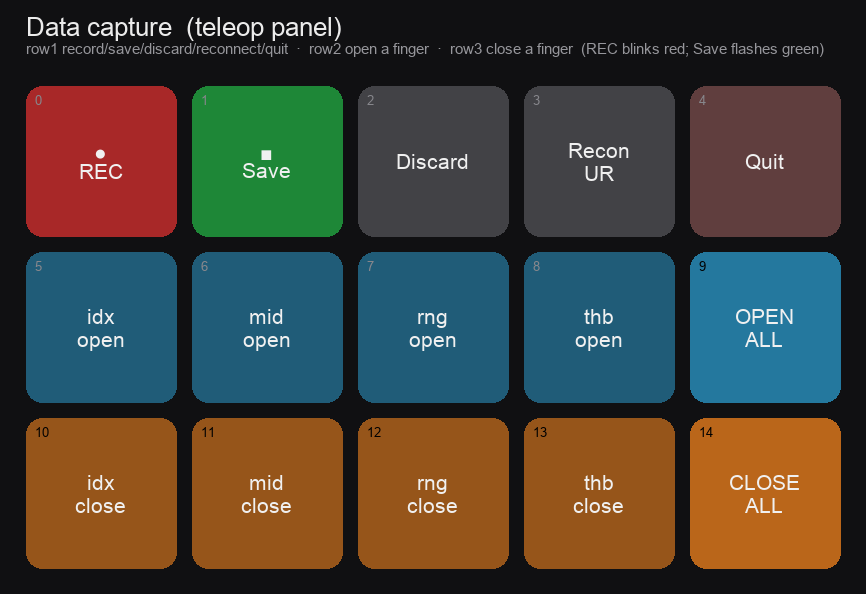
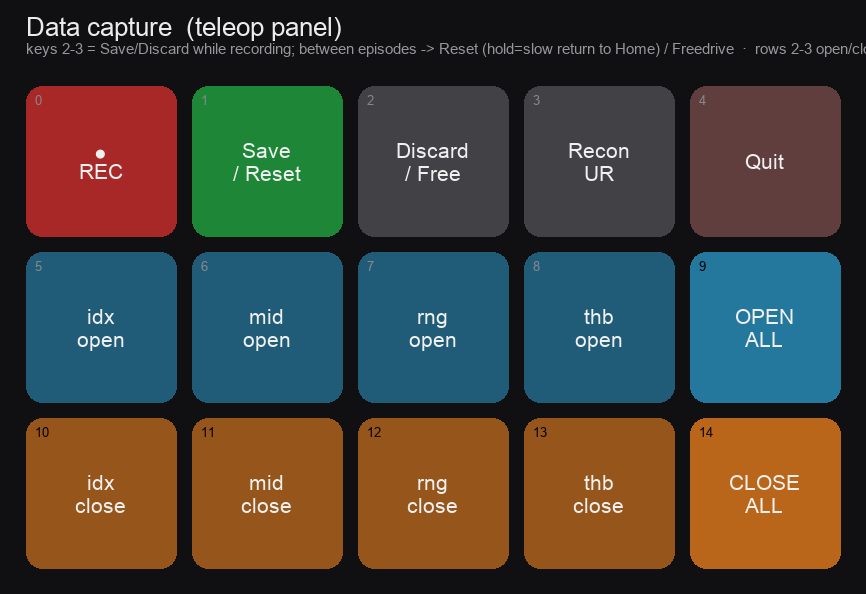
panel: Set-Home + hold-to-home Reset + state-dependent deck keys (Save/Reset, Discard/Freedrive)
- 🏠 Set Home button captures current joint config -> outputs/home_pose.json (loaded on launch)
- rtde_arm.home_step(): slow joint-space servoJ toward home (singularity-safe)
- deck keys flip on recording state: recording=Save/Discard; idle=Reset(hold->home)/Freedrive(toggle)
- Reset re-bases the teleop target so releasing it doesn't jump; README deck diagrams updated
GUI smoke-built (kinematic); hardware behaviors need on-robot validation.

Changed region(s): [[0.0312, 0.0606, 1.0, 0.0909], [0.4365, 0.2424, 0.5612, 0.303], [0.2806, 0.2424, 0.343, 0.303]]

diff --git a/ur5e_lerobot/teleop/manual_panel.py b/ur5e_lerobot/teleop/manual_panel.py
@@ -423,6 +423,17 @@ def run_gui(engine, repo_id, root, task_default, fps, width, height, input_mode=
     ctrl = ManualController(session.home, grasp_mode=grasp_mode)  # arm's natural keyframe home, grasp 0
     ranges = ctrl.ranges()
 
+    # Captured home JOINT config for the deck 'Reset' key (hold-to-home). Persisted across runs.
+    import json as _json
+    HOME_PATH, HOME_DQ = "outputs/home_pose.json", 0.03  # rad/tick step (~0.36 rad/s at 12 fps)
+    hp = {"q": None}  # mutable holder; Set Home updates it
+    if os.path.exists(HOME_PATH):
+        try:
+            hp["q"] = _json.load(open(HOME_PATH)).get("q")
+            print(f"[home] loaded home pose from {HOME_PATH}")
+        except Exception as e:  # noqa: BLE001
+            print(f"[home] could not load {HOME_PATH}: {e}")
+
     # Live input state — the mode is switchable at runtime via the dropdown, so keep the device
     # handles + current mode in a mutable dict (closures below read/mutate it).
     io = {"mode": input_mode, "sm": None, "gp": None, "gp_ok": False}
@@ -550,6 +561,34 @@ def run_gui(engine, repo_id, root, task_default, fps, width, height, input_mode=
         for k, var in sliders.items():
             var.set(getattr(ctrl, k))
         grasp_var.set(ctrl.grasp)
+
+    def do_set_home() -> None:
+        """Capture the arm's CURRENT joint config as the home pose (freedrive there first). Persisted;
+        the deck 'Reset' key hold-returns to it."""
+        try:
+            q = [float(v) for v in session.robot.arm.get_joint_positions()]
+        except Exception as e:  # noqa: BLE001
+            log(f"set-home failed (no joint feedback): {e}")
+            return
+        hp["q"] = q
+        try:
+            os.makedirs("outputs", exist_ok=True)
+            _json.dump({"q": q, "tcp": [float(v) for v in session.robot.arm.get_ee_pose()]},
+                       open(HOME_PATH, "w"), indent=2)
+            log("home pose set ✓ — deck Reset (hold) returns here")
+        except Exception as e:  # noqa: BLE001
+            log(f"home set in memory; save failed: {e}")
+
+    def _rebase_ctrl() -> None:
+        """Snap the teleop target onto the arm's actual pose (no _home_rot change) so resuming teleop
+        after a hold-to-home / freedrive doesn't jump."""
+        try:
+            pose = session.robot.arm.get_ee_pose()
+        except Exception:  # noqa: BLE001
+            return
+        ctrl.x = _clamp(pose[0], *ranges["x"]); ctrl.y = _clamp(pose[1], *ranges["y"]); ctrl.z = _clamp(pose[2], *ranges["z"])
+        d = ctrl._home_rot.inv() * Rotation.from_rotvec(pose[3:6])
+        ctrl.roll, ctrl.pitch, ctrl.yaw = (float(a) for a in d.as_euler("xyz"))
 
     def do_save() -> None:
         import time
@@ -692,6 +731,7 @@ def run_gui(engine, repo_id, root, task_default, fps, width, height, input_mode=
     btns = tk.Frame(win)
     actions = [
         ("Reset scene", do_reset),
+        ("🏠 Set Home", do_set_home),
         ("● Start rec", session.start_episode),
         ("■ Save ep", do_save),
         ("Discard", do_discard),
@@ -748,14 +788,16 @@ def run_gui(engine, repo_id, root, task_default, fps, width, height, input_mode=
     # Deck layout (5x3, deck mounted upside down -> flip=True). Row 1: actions. Row 2: per-finger
     # OPEN + Open-All. Row 3: per-finger CLOSE + Close-All. In sd_fingers: finger index -1 == all
     # fingers; sign -1 == open, +1 == close.
-    sd_actions = {0: session.start_episode, 1: do_save, 2: do_discard, 3: do_reconnect, 4: on_close}
-    sd_action_labels = {0: "● REC", 1: "■ Save", 2: "Discard", 3: "⟳ Recon", 4: "Quit"}
+    # Keys 0/3/4 are fixed actions. Keys 1/2 are recording-state-dependent (handled in _pump_streamdeck):
+    #   recording -> 1=Save, 2=Discard   |   idle -> 1=Reset (hold->home), 2=Freedrive (toggle).
+    sd_actions = {0: session.start_episode, 3: do_reconnect, 4: on_close}
+    sd_action_labels = {0: "● REC", 3: "⟳ Recon", 4: "Quit"}
     sd_fingers = {5: (0, -1), 6: (1, -1), 7: (2, -1), 8: (3, -1), 9: (-1, -1),
                   10: (0, +1), 11: (1, +1), 12: (2, +1), 13: (3, +1), 14: (-1, +1)}
     sd_labels = {5: "idx\nopen", 6: "mid\nopen", 7: "rng\nopen", 8: "thb\nopen", 9: "OPEN\nALL",
                  10: "idx\nclose", 11: "mid\nclose", 12: "rng\nclose", 13: "thb\nclose", 14: "CLOSE\nALL"}
-    sd = {"pad": None, "queue": _queue.Queue(), "held": {},
-          "rec_bg": None, "save_bg": None, "save_flash_until": 0.0}  # deck key-blink state
+    sd = {"pad": None, "queue": _queue.Queue(), "held": {}, "reset_held": False, "prev_mode": "spacemouse",
+          "rec_bg": None, "k1": None, "k2": None, "save_flash_until": 0.0}  # deck key-render state
     try:
         from .streamdeck import StreamDeckPad
 
@@ -769,6 +811,14 @@ def run_gui(engine, repo_id, root, task_default, fps, width, height, input_mode=
     except Exception as e:  # noqa: BLE001 — the panel runs fine without a deck
         log(f"Stream Deck not available ({e})")
 
+    def _toggle_freedrive_key() -> None:
+        # deck key 2 when idle: flip between teach mode and the prior driving input
+        if io["mode"] == "freedrive":
+            switch_mode(sd["prev_mode"])
+        else:
+            sd["prev_mode"] = io["mode"] if io["mode"] != "freedrive" else "spacemouse"
+            switch_mode("freedrive")
+
     def _pump_streamdeck() -> None:
         moved = False
         while True:  # drain events pushed from the deck's callback thread
@@ -778,7 +828,19 @@ def run_gui(engine, repo_id, root, task_default, fps, width, height, input_mode=
                 break
             if key in sd_actions:
                 if down:
-                    sd_actions[key]()          # fire the action on press
+                    sd_actions[key]()          # fixed actions (REC / Recon / Quit)
+            elif key == 1:                     # Save (recording) | Reset-hold (idle)
+                if session.recording:
+                    if down:
+                        do_save()
+                else:
+                    sd["reset_held"] = down
+            elif key == 2:                     # Discard (recording) | Freedrive-toggle (idle)
+                if session.recording:
+                    if down:
+                        do_discard()
+                elif down:
+                    _toggle_freedrive_key()
             elif key in sd_fingers:
                 sd["held"][key] = down          # hold-to-ramp
         for key, held in sd["held"].items():
@@ -792,21 +854,33 @@ def run_gui(engine, repo_id, root, task_default, fps, width, height, input_mode=
             grasp_var.set(ctrl.grasp)
 
     def _update_deck_status() -> None:
-        # Blink REC (key 0) while recording; flash Save (key 1) briefly after a save. Re-render a key
-        # only when its background actually changes (cheap).
+        # Keys 0/1/2 are dynamic: REC blinks red while recording; 1=Save(recording, flashes green on
+        # save)/Reset(idle); 2=Discard(recording)/Freedrive(idle, blue when on). Re-render only on change.
         pad = sd["pad"]
         if pad is None:
             return
         import time
+        rec = session.recording
         on = int(time.time() * 1.5) % 2 == 0  # ~1.5 Hz blink phase
-        rec_bg = ((200, 30, 30) if on else (45, 0, 0)) if session.recording else (25, 25, 25)
+        rec_bg = ((200, 30, 30) if on else (45, 0, 0)) if rec else (25, 25, 25)
         if rec_bg != sd["rec_bg"]:
             pad.set_label(0, "● REC", bg=rec_bg)
             sd["rec_bg"] = rec_bg
-        save_bg = ((20, 170, 20) if on else (0, 55, 0)) if time.time() < sd["save_flash_until"] else (25, 25, 25)
-        if save_bg != sd["save_bg"]:
-            pad.set_label(1, "■ Save", bg=save_bg)
-            sd["save_bg"] = save_bg
+        if rec:
+            sbg = ((20, 170, 20) if on else (0, 55, 0)) if time.time() < sd["save_flash_until"] else (25, 25, 25)
+            k1 = ("■ Save", sbg)
+        else:
+            k1 = ("Reset\nhome", (150, 112, 22))
+        if k1 != sd["k1"]:
+            pad.set_label(1, k1[0], bg=k1[1])
+            sd["k1"] = k1
+        if rec:
+            k2 = ("Discard", (25, 25, 25))
+        else:
+            k2 = ("FREE\ndrive", (30, 90, 175) if io["mode"] == "freedrive" else (60, 60, 64))
+        if k2 != sd["k2"]:
+            pad.set_label(2, k2[0], bg=k2[1])
+            sd["k2"] = k2
 
     period = max(1, int(1000 / fps))
     dt = 1.0 / fps
@@ -882,10 +956,16 @@ def run_gui(engine, repo_id, root, task_default, fps, width, height, input_mode=
     tickn = {"i": 0}
 
     def tick() -> None:
-        _pump_streamdeck()  # drain deck key events (actions + per-finger ramp)
-        _update_deck_status()  # blink REC while recording / flash Save after a save
+        _pump_streamdeck()  # drain deck key events (actions + per-finger ramp + reset/freedrive keys)
+        _update_deck_status()  # dynamic deck labels: REC blink, Save/Reset, Discard/Freedrive
         mode = io["mode"]
-        if mode == "gamepad" and io["gp"] is not None:
+        # Hold-to-home: deck Reset held while idle -> slow joint-space return to the captured home. Drives
+        # the arm directly (servoJ) and re-bases the teleop target so releasing Reset doesn't jump.
+        resetting = sd["reset_held"] and not session.recording and mode != "freedrive" and hp["q"] is not None
+        if resetting:
+            session.robot.arm.home_step(hp["q"], HOME_DQ)
+            _rebase_ctrl()
+        elif mode == "gamepad" and io["gp"] is not None:
             if io["gp_ok"]:
                 _apply_gamepad()  # else: uncalibrated -> don't move the arm until 'Calibrate GP' is run
         elif mode == "spacemouse" and io["sm"] is not None:
@@ -901,7 +981,7 @@ def run_gui(engine, repo_id, root, task_default, fps, width, height, input_mode=
             action_vec = ctrl.action_vector()
         scene_img, wrist_img = session.step(
             action_vec, task_var.get(), record=session.recording, do_wrist=do_wrist,
-            command_arm=(mode != "freedrive"),
+            command_arm=(mode != "freedrive") and not resetting,  # during reset, home_step drives the arm
         )
         def _fit(img, cell, label):  # letterbox into the cell; identical logic -> equal display sizes
             pil = Image.fromarray(img)

diff --git a/ur5e_lerobot/robot/rtde_arm.py b/ur5e_lerobot/robot/rtde_arm.py
@@ -90,6 +90,18 @@ class RtdeArmInterface(ArmInterface):
             self._c.endTeachMode()
             self._freedrive = False
 
+    def home_step(self, q_home, max_dq: float = 0.03) -> bool:
+        """servoJ ONE small step from the current joints toward q_home (rad) — call each control cycle
+        (hold-to-home). Joint space, so no IK/singularity faults and it's perfectly repeatable. Returns
+        True once within ~0.5° of home. `max_dq` caps per-cycle joint motion (speed)."""
+        if self._freedrive or self._c is None or self._r is None:
+            return False
+        q = np.asarray(self._r.getActualQ(), dtype=float)
+        qh = np.asarray(q_home, dtype=float)
+        dq = np.clip(qh - q, -max_dq, max_dq)
+        self._c.servoJ((q + dq).tolist(), self.speed, self.accel, self.dt, self.lookahead, self.gain)
+        return bool(np.all(np.abs(qh - q) < 0.009))
+
     def reconnect(self) -> str:
         """Recover after a protective stop / stopped control script (no app restart needed).
 

diff --git a/README.md b/README.md
@@ -57,7 +57,9 @@ controller). Hand over TCP (`hand/amazing_hand_client.py` → `.117`). Cameras b
 - **Grasp**: SpaceMouse buttons or keyboard `c`/`o`; gamepad bumpers LB/RB.
 - **● Start rec → demo → ■ Save ep**. Closing the window finalizes cleanly (parquet footers). Records both cameras + the 10-D action; **vary the block position** across episodes.
 
-**Stream Deck** (optional, `teleop/streamdeck.py`, mounted upside down → labels auto-flip): row 1 = record/save/discard/reconnect/quit, row 2 = open a finger (idx/mid/rng/thb + Open-All), row 3 = close a finger. ● REC blinks red while recording; ■ Save flashes green on save.
+**Home pose:** freedrive to a comfortable start pose and click **🏠 Set Home** — it captures the joint config to `outputs/home_pose.json` (loaded on launch). The deck **Reset** key hold-returns to it (slow joint-space `servoJ`, singularity-safe).
+
+**Stream Deck** (optional, `teleop/streamdeck.py`, mounted upside down → labels auto-flip). Row 1 keys are **recording-state-dependent**: while recording, keys 2–3 are **■ Save / Discard**; between episodes they flip to **Reset** (hold → slow return to Home) and **Freedrive** (toggle teach mode to reposition). Rows 2–3 open/close a finger (idx/mid/rng/thb + Open-/Close-All). ● REC blinks red while recording; ■ Save flashes green on save.
 
 ![Data-capture Stream Deck layout](docs/streamdeck_capture.png)
 
